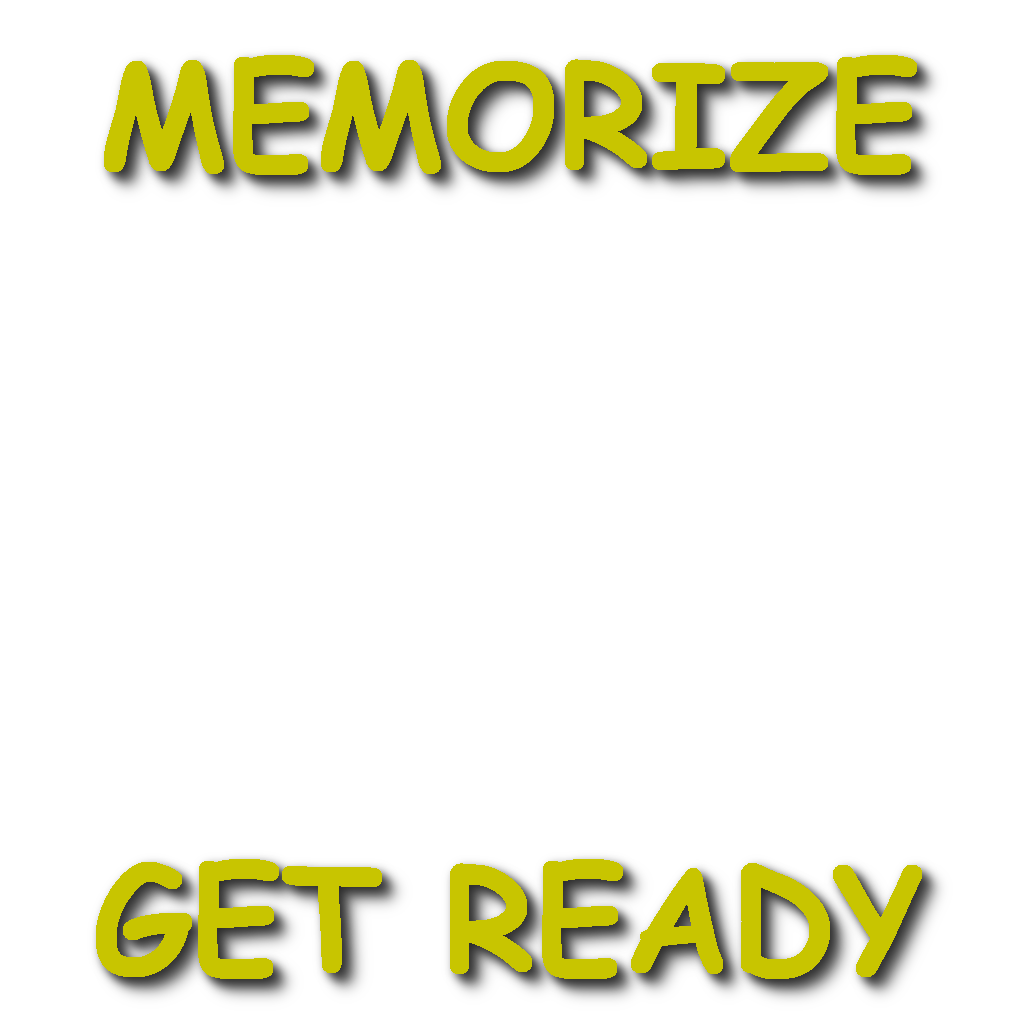
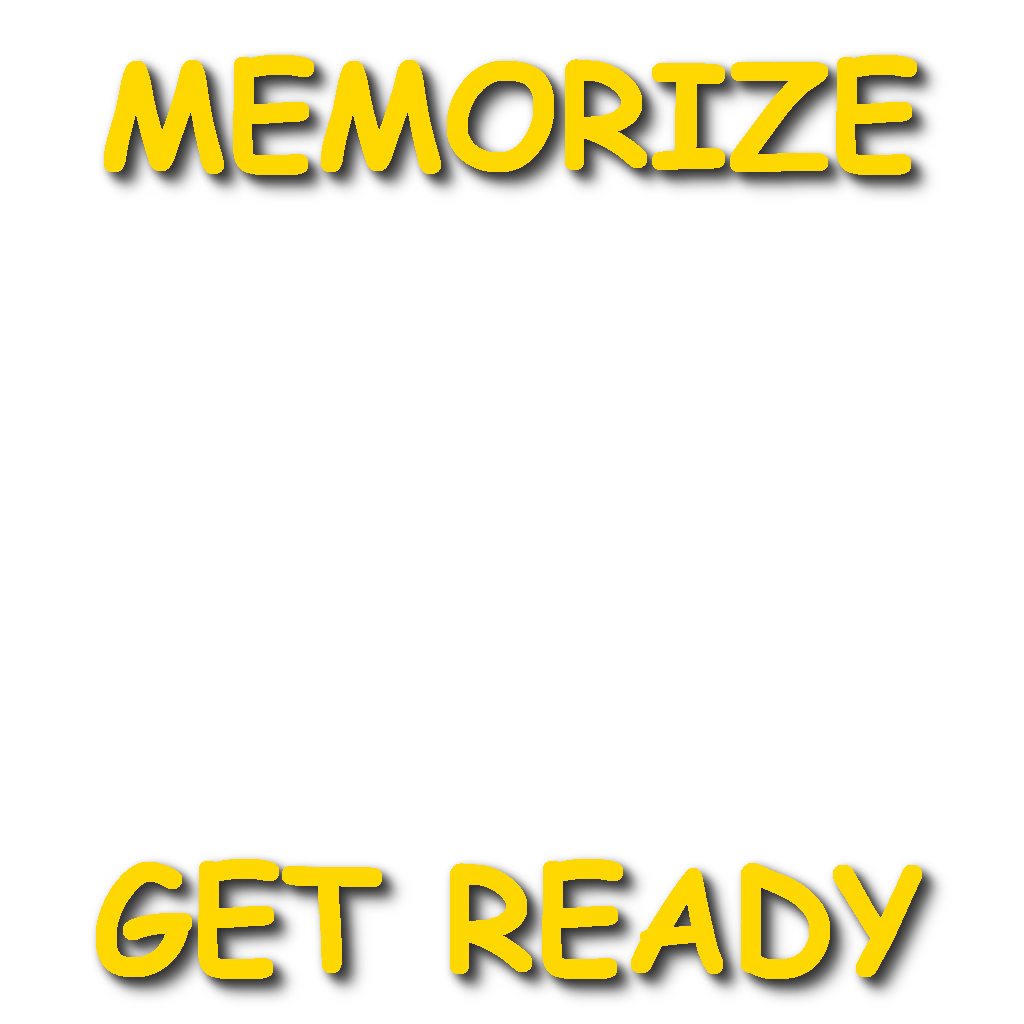
enhanced font and get ready images

Changed region(s): [[0.0938, 0.0312, 0.9062, 0.1875], [0.4375, 0.8125, 0.9062, 0.9688], [0.0938, 0.8125, 0.375, 0.9688]]

diff --git a/client/trunk/app/blinker-game-desktop/src/com/doogetha/blinkergame/Main.java b/client/trunk/app/blinker-game-desktop/src/com/doogetha/blinkergame/Main.java
@@ -8,8 +8,8 @@ public class Main {
 		LwjglApplicationConfiguration cfg = new LwjglApplicationConfiguration();
 		cfg.title = "blinker-game";
 		cfg.useGL20 = false;
-		cfg.width = 480;
-		cfg.height = 800;
+		cfg.width = 240;
+		cfg.height = 400;
 		
 		new LwjglApplication(new BlinkerGame(), cfg);
 	}

diff --git a/client/trunk/app/blinker-game/src/com/doogetha/blinkergame/BlinkerGame.java b/client/trunk/app/blinker-game/src/com/doogetha/blinkergame/BlinkerGame.java
@@ -236,8 +236,6 @@ public class BlinkerGame implements ApplicationListener {
 	protected void setDirectionButtonsVisible(boolean visible) {
 		buttonLeft.setVisible(visible);
 		buttonRight.setVisible(visible);
-		buttonLeft.setDisabled(!visible);
-		buttonRight.setDisabled(!visible);
 	}
 	
 	@Override
